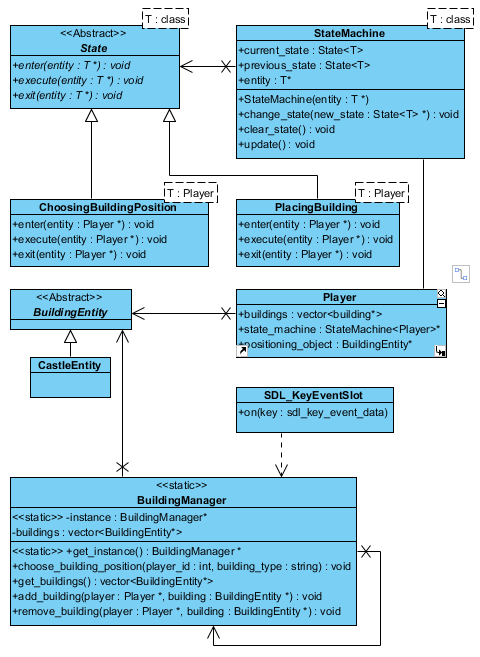
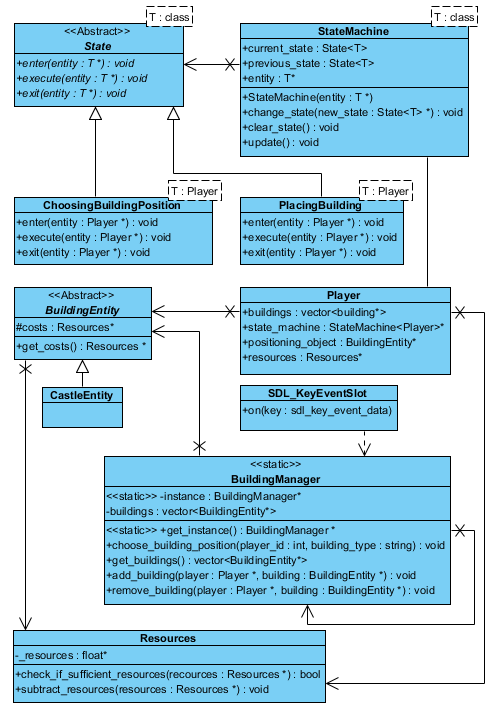
Doc/building costs resources (#82)
* Added line for resources costs

* Updated diagrams

* AbortPlacingBuilding and updated diagrams

diff --git a/docs/software_architecture/chapters/adding-buildings.tex b/docs/software_architecture/chapters/adding-buildings.tex
@@ -27,7 +27,10 @@ During the execute method of this state the mouse position of the player will be
 
 \subsubsection{PlacingBuilding}
 The PlacingBuilding state will be entered when the player hits 'N' while it is in the ChoosingBuildingPosition state. This state only has logic in its enter method, because it needs to make one decision: can the building be positioned at this position or not.\\
-If the building cannot be positioned at the node, the state will be changed back to ChoosingBuildingPosition, to give the user another chance to find a good spot for the building. If the building can be placed at the node, the entity will be added to the building array of the player and to the building array of the BuildingManager. The opacity will also be set to 0\%. The positioning\_object variable kept by the player object will be cleared, just like the current state of the user.
+If the building cannot be positioned at the node, the state will be changed back to ChoosingBuildingPosition, to give the user another chance to find a good spot for the building. If the building can be placed at the node and the player has enough resources to cover the costs for a building, the entity will be added to the building array of the player and to the building array of the BuildingManager. The opacity will also be set to 0\%. The positioning\_object variable kept by the player object will be cleared, just like the current state of the user.
+
+\subsubsection{AbortPlacingBuilding}
+This state will be entered when a player is in the ChoosingBuildingPosition state and it hits the 'ESC' key. It also will be entered after a player enters the PlacingBuilding and it has not enough resources to place the building. The method only has logic in the enter method and it fires the remove\_building() method from the BuildingFactory. 
 
 \begin{figure}[!htb]
     \centering
